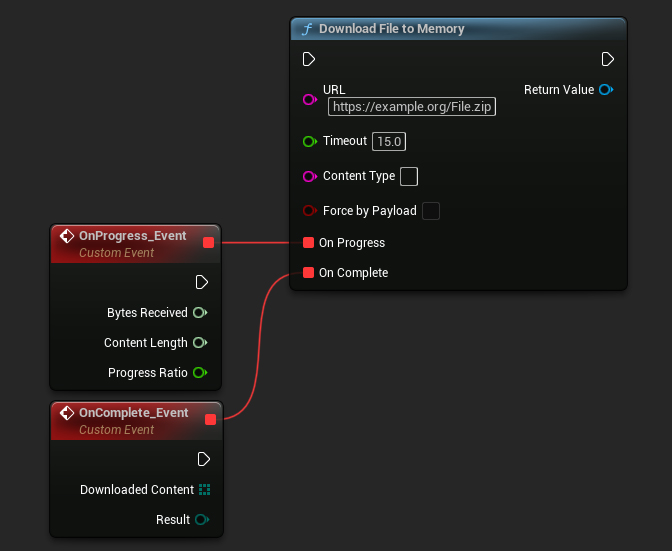
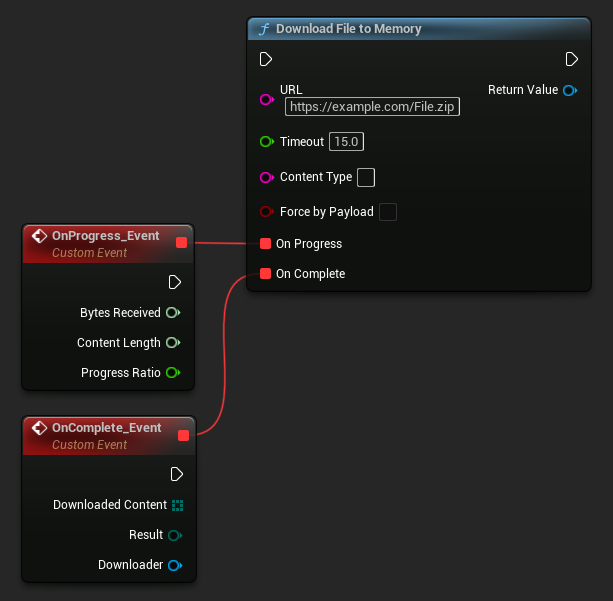
Pass downloader to completion delegates to better understand the context from BPs

diff --git a/Source/RuntimeFilesDownloader/Private/FileToStorageDownloader.cpp b/Source/RuntimeFilesDownloader/Private/FileToStorageDownloader.cpp
@@ -15,9 +15,9 @@ UFileToStorageDownloader* UFileToStorageDownloader::DownloadFileToStorage(const 
 	return DownloadFileToStorage(URL, SavePath, Timeout, ContentType, bForceByPayload, FOnDownloadProgressNative::CreateLambda([OnProgress](int64 BytesReceived, int64 ContentSize, float ProgressRatio)
 	{
 		OnProgress.ExecuteIfBound(BytesReceived, ContentSize, ProgressRatio);
-	}), FOnFileToStorageDownloadCompleteNative::CreateLambda([OnComplete](EDownloadToStorageResult Result, const FString& SavedPath)
+	}), FOnFileToStorageDownloadCompleteNative::CreateLambda([OnComplete](EDownloadToStorageResult Result, const FString& SavedPath, UFileToStorageDownloader* Downloader)
 	{
-		OnComplete.ExecuteIfBound(Result, SavedPath);
+		OnComplete.ExecuteIfBound(Result, SavedPath, Downloader);
 	}));
 }
 
@@ -46,7 +46,7 @@ void UFileToStorageDownloader::DownloadFileToStorage(const FString& URL, const F
 	if (URL.IsEmpty())
 	{
 		UE_LOG(LogRuntimeFilesDownloader, Error, TEXT("You have not provided an URL to download the file"));
-		OnDownloadComplete.ExecuteIfBound(EDownloadToStorageResult::InvalidURL, SavePath);
+		OnDownloadComplete.ExecuteIfBound(EDownloadToStorageResult::InvalidURL, SavePath, this);
 		RemoveFromRoot();
 		return;
 	}
@@ -54,7 +54,7 @@ void UFileToStorageDownloader::DownloadFileToStorage(const FString& URL, const F
 	if (SavePath.IsEmpty())
 	{
 		UE_LOG(LogRuntimeFilesDownloader, Error, TEXT("You have not provided a path to save the file"));
-		OnDownloadComplete.ExecuteIfBound(EDownloadToStorageResult::InvalidSavePath, SavePath);
+		OnDownloadComplete.ExecuteIfBound(EDownloadToStorageResult::InvalidSavePath, SavePath, this);
 		RemoveFromRoot();
 		return;
 	}
@@ -99,13 +99,13 @@ void UFileToStorageDownloader::OnComplete_Internal(EDownloadToMemoryResult Resul
 		switch (Result)
 		{
 		case EDownloadToMemoryResult::Cancelled:
-			OnDownloadComplete.ExecuteIfBound(EDownloadToStorageResult::Cancelled, FileSavePath);
+			OnDownloadComplete.ExecuteIfBound(EDownloadToStorageResult::Cancelled, FileSavePath, this);
 			break;
 		case EDownloadToMemoryResult::DownloadFailed:
-			OnDownloadComplete.ExecuteIfBound(EDownloadToStorageResult::DownloadFailed, FileSavePath);
+			OnDownloadComplete.ExecuteIfBound(EDownloadToStorageResult::DownloadFailed, FileSavePath, this);
 			break;
 		case EDownloadToMemoryResult::InvalidURL:
-			OnDownloadComplete.ExecuteIfBound(EDownloadToStorageResult::InvalidURL, FileSavePath);
+			OnDownloadComplete.ExecuteIfBound(EDownloadToStorageResult::InvalidURL, FileSavePath, this);
 			break;
 		}
 		return;
@@ -114,7 +114,7 @@ void UFileToStorageDownloader::OnComplete_Internal(EDownloadToMemoryResult Resul
 	if (!DownloadedContent.IsValidIndex(0))
 	{
 		UE_LOG(LogRuntimeFilesDownloader, Error, TEXT("An error occurred while downloading the file to storage"));
-		OnDownloadComplete.ExecuteIfBound(EDownloadToStorageResult::DownloadFailed, FileSavePath);
+		OnDownloadComplete.ExecuteIfBound(EDownloadToStorageResult::DownloadFailed, FileSavePath, this);
 		return;
 	}
 
@@ -129,7 +129,7 @@ void UFileToStorageDownloader::OnComplete_Internal(EDownloadToMemoryResult Resul
 			if (!PlatformFile.CreateDirectoryTree(*Path))
 			{
 				UE_LOG(LogRuntimeFilesDownloader, Error, TEXT("Unable to create a directory '%s' to save the downloaded file"), *Path);
-				OnDownloadComplete.ExecuteIfBound(EDownloadToStorageResult::DirectoryCreationFailed, FileSavePath);
+				OnDownloadComplete.ExecuteIfBound(EDownloadToStorageResult::DirectoryCreationFailed, FileSavePath, this);
 				return;
 			}
 		}
@@ -142,7 +142,7 @@ void UFileToStorageDownloader::OnComplete_Internal(EDownloadToMemoryResult Resul
 		if (!FileManager.Delete(*FileSavePath))
 		{
 			UE_LOG(LogRuntimeFilesDownloader, Error, TEXT("Something went wrong while deleting the existing file '%s'"), *FileSavePath);
-			OnDownloadComplete.ExecuteIfBound(EDownloadToStorageResult::SaveFailed, FileSavePath);
+			OnDownloadComplete.ExecuteIfBound(EDownloadToStorageResult::SaveFailed, FileSavePath, this);
 			return;
 		}
 	}
@@ -151,7 +151,7 @@ void UFileToStorageDownloader::OnComplete_Internal(EDownloadToMemoryResult Resul
 	if (!FileHandle)
 	{
 		UE_LOG(LogRuntimeFilesDownloader, Error, TEXT("Something went wrong while saving the file '%s'"), *FileSavePath);
-		OnDownloadComplete.ExecuteIfBound(EDownloadToStorageResult::SaveFailed, FileSavePath);
+		OnDownloadComplete.ExecuteIfBound(EDownloadToStorageResult::SaveFailed, FileSavePath, this);
 		return;
 	}
 
@@ -159,10 +159,10 @@ void UFileToStorageDownloader::OnComplete_Internal(EDownloadToMemoryResult Resul
 	{
 		UE_LOG(LogRuntimeFilesDownloader, Error, TEXT("Something went wrong while writing the response data to the file '%s'"), *FileSavePath);
 		delete FileHandle;
-		OnDownloadComplete.ExecuteIfBound(EDownloadToStorageResult::SaveFailed, FileSavePath);
+		OnDownloadComplete.ExecuteIfBound(EDownloadToStorageResult::SaveFailed, FileSavePath, this);
 		return;
 	}
 
 	delete FileHandle;
-	OnDownloadComplete.ExecuteIfBound(Result == EDownloadToMemoryResult::SucceededByPayload ? EDownloadToStorageResult::SucceededByPayload : EDownloadToStorageResult::Success, FileSavePath);
+	OnDownloadComplete.ExecuteIfBound(Result == EDownloadToMemoryResult::SucceededByPayload ? EDownloadToStorageResult::SucceededByPayload : EDownloadToStorageResult::Success, FileSavePath, this);
 }

diff --git a/Source/RuntimeFilesDownloader/Private/FileToMemoryDownloader.cpp b/Source/RuntimeFilesDownloader/Private/FileToMemoryDownloader.cpp
@@ -40,15 +40,15 @@ UFileToMemoryDownloader* UFileToMemoryDownloader::DownloadFileToMemory(const FSt
 	return DownloadFileToMemory(URL, Timeout, ContentType, bForceByPayload, FOnDownloadProgressNative::CreateLambda([OnProgress](int64 BytesReceived, int64 ContentSize, float Progress)
 	{
 		OnProgress.ExecuteIfBound(BytesReceived, ContentSize, Progress);
-	}), FOnFileToMemoryDownloadCompleteNative::CreateLambda([OnComplete](const TArray64<uint8>& DownloadedContent, EDownloadToMemoryResult Result)
+	}), FOnFileToMemoryDownloadCompleteNative::CreateLambda([OnComplete](const TArray64<uint8>& DownloadedContent, EDownloadToMemoryResult Result, UFileToMemoryDownloader* Downloader)
 	{
 		if (DownloadedContent.Num() > TNumericLimits<int32>::Max())
 		{
 			UE_LOG(LogRuntimeFilesDownloader, Error, TEXT("The size of the downloaded content exceeds the maximum limit for an int32 array. Maximum length: %d, Retrieved length: %lld\nA standard byte array can hold a maximum of 2 GB of data. If you need to download more than 2 GB of data into memory, consider using the C++ native equivalent instead of the Blueprint dynamic delegate"), TNumericLimits<int32>::Max(), DownloadedContent.Num());
-			OnComplete.ExecuteIfBound(TArray<uint8>(), EDownloadToMemoryResult::DownloadFailed);
+			OnComplete.ExecuteIfBound(TArray<uint8>(), EDownloadToMemoryResult::DownloadFailed, Downloader);
 			return;
 		}
-		OnComplete.ExecuteIfBound(TArray<uint8>(DownloadedContent), Result);
+		OnComplete.ExecuteIfBound(TArray<uint8>(DownloadedContent), Result, Downloader);
 	}));
 }
 
@@ -77,7 +77,7 @@ void UFileToMemoryDownloader::DownloadFileToMemory(const FString& URL, float Tim
 	if (URL.IsEmpty())
 	{
 		UE_LOG(LogRuntimeFilesDownloader, Error, TEXT("You have not provided an URL to download the file"));
-		OnDownloadComplete.ExecuteIfBound(TArray64<uint8>(), EDownloadToMemoryResult::InvalidURL);
+		OnDownloadComplete.ExecuteIfBound(TArray64<uint8>(), EDownloadToMemoryResult::InvalidURL, this);
 		RemoveFromRoot();
 		return;
 	}
@@ -96,7 +96,7 @@ void UFileToMemoryDownloader::DownloadFileToMemory(const FString& URL, float Tim
 	auto OnResult = [this](FRuntimeChunkDownloaderResult&& Result) mutable
 	{
 		RemoveFromRoot();
-		OnDownloadComplete.ExecuteIfBound(Result.Data, Result.Result);
+		OnDownloadComplete.ExecuteIfBound(Result.Data, Result.Result, this);
 	};
 
 	RuntimeChunkDownloaderPtr = MakeShared<FRuntimeChunkDownloader>();
@@ -115,7 +115,7 @@ void UFileToMemoryDownloader::DownloadFileToMemoryPerChunk(const FString& URL, f
 	if (URL.IsEmpty())
 	{
 		UE_LOG(LogRuntimeFilesDownloader, Error, TEXT("You have not provided an URL to download the file"));
-		OnDownloadComplete.ExecuteIfBound(TArray64<uint8>(), EDownloadToMemoryResult::InvalidURL);
+		OnDownloadComplete.ExecuteIfBound(TArray64<uint8>(), EDownloadToMemoryResult::InvalidURL, this);
 		RemoveFromRoot();
 		return;
 	}

diff --git a/Source/RuntimeFilesDownloader/Public/FileToMemoryDownloader.h b/Source/RuntimeFilesDownloader/Public/FileToMemoryDownloader.h
@@ -5,6 +5,8 @@
 #include "BaseFilesDownloader.h"
 #include "FileToMemoryDownloader.generated.h"
 
+class UFileToMemoryDownloader;
+
 /**
 * Possible results from a download request
 */
@@ -20,10 +22,10 @@ enum class EDownloadToMemoryResult : uint8
 };
 
 /** Static delegate to track download completion */
-DECLARE_DELEGATE_TwoParams(FOnFileToMemoryDownloadCompleteNative, const TArray64<uint8>&, EDownloadToMemoryResult);
+DECLARE_DELEGATE_ThreeParams(FOnFileToMemoryDownloadCompleteNative, const TArray64<uint8>&, EDownloadToMemoryResult, UFileToMemoryDownloader*);
 
 /** Dynamic delegate to track download completion */
-DECLARE_DYNAMIC_DELEGATE_TwoParams(FOnFileToMemoryDownloadComplete, const TArray<uint8>&, DownloadedContent, EDownloadToMemoryResult, Result);
+DECLARE_DYNAMIC_DELEGATE_ThreeParams(FOnFileToMemoryDownloadComplete, const TArray<uint8>&, DownloadedContent, EDownloadToMemoryResult, Result, UFileToMemoryDownloader*, Downloader);
 
 /** Static delegate to track chunk download completion */
 DECLARE_DELEGATE_OneParam(FOnFileToMemoryChunkDownloadCompleteNative, const TArray64<uint8>&);

diff --git a/Source/RuntimeFilesDownloader/Public/FileToStorageDownloader.h b/Source/RuntimeFilesDownloader/Public/FileToStorageDownloader.h
@@ -5,6 +5,8 @@
 #include "BaseFilesDownloader.h"
 #include "FileToStorageDownloader.generated.h"
 
+class UFileToStorageDownloader;
+
 /** Possible results from a download request */
 UENUM(BlueprintType, Category = "File To Storage Downloader")
 enum class EDownloadToStorageResult : uint8
@@ -22,10 +24,10 @@ enum class EDownloadToStorageResult : uint8
 
 
 /** Static delegate broadcast after the download is complete */
-DECLARE_DELEGATE_TwoParams(FOnFileToStorageDownloadCompleteNative, EDownloadToStorageResult, const FString&);
+DECLARE_DELEGATE_ThreeParams(FOnFileToStorageDownloadCompleteNative, EDownloadToStorageResult, const FString&, UFileToStorageDownloader*);
 
 /** Dynamic delegate broadcast after the download is complete */
-DECLARE_DYNAMIC_DELEGATE_TwoParams(FOnFileToStorageDownloadComplete, EDownloadToStorageResult, Result, const FString&, SavedPath);
+DECLARE_DYNAMIC_DELEGATE_ThreeParams(FOnFileToStorageDownloadComplete, EDownloadToStorageResult, Result, const FString&, SavedPath, UFileToStorageDownloader*, Downloader);
 
 enum class EDownloadToMemoryResult : uint8;
 
